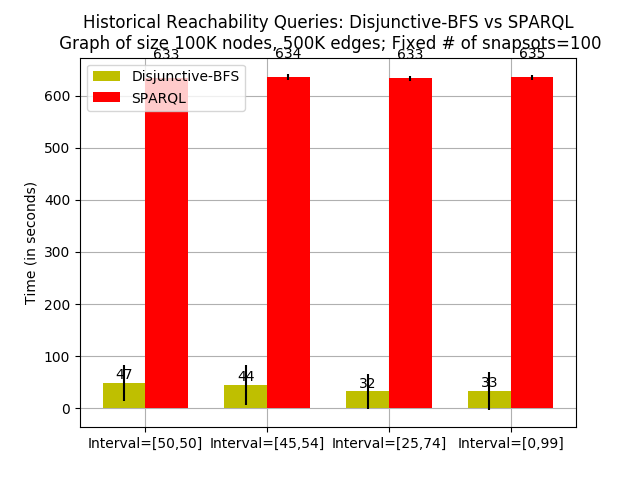
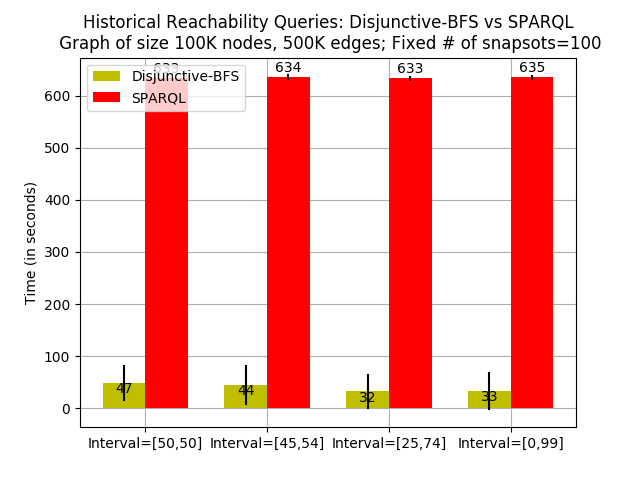
up plot sys eval

diff --git a/demo/system_evaluation/plot.py b/demo/system_evaluation/plot.py
@@ -9,7 +9,7 @@ N = 3
 
 
 
-ind = np.arange(N)  # the x locations for the groups
+ind = np.arange(2)  # the x locations for the groups
 width = 0.35       # the width of the bars
 
 fig, ax = plt.subplots()
@@ -17,9 +17,11 @@ fig, ax = plt.subplots()
 ax.grid()
 ax.set_axisbelow(True)
 
-sparql_means =  (60.1594,658.7458,2000)
-sparql_std = (11.71906606,43.71266781,0)
+sparql_means =  (60.1594,658.7458)
+sparql_std = (11.71906606,43.71266781)
 rects1 = ax.bar(ind + width, sparql_means, width, color='r',yerr=sparql_std)
+
+ind = np.arange(N)
 
 DBFS_means = (76.2883,111.2985,165.9069)
 DBFS_std = (121.7716176,186.0376419,231.2786242)
@@ -43,7 +45,7 @@ def autolabel(rects):
         height = rect.get_height()
         ax.text(rect.get_x() + rect.get_width()/2., 1.05*height,
                 '%d' % int(height),
-                ha='center', va='bottom')
+                ha='center', va='top')
 
 autolabel(rects1)
 autolabel(rects2)
